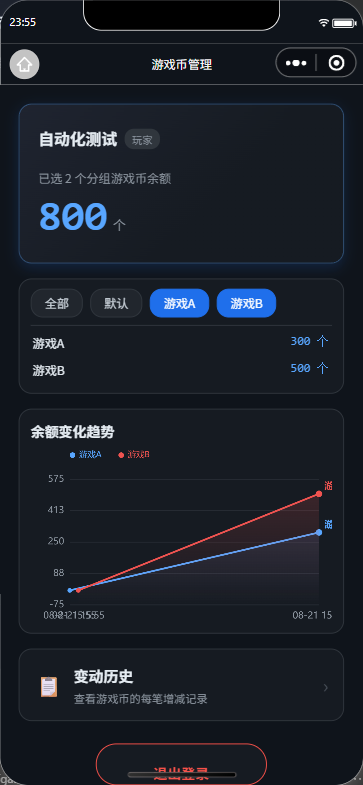
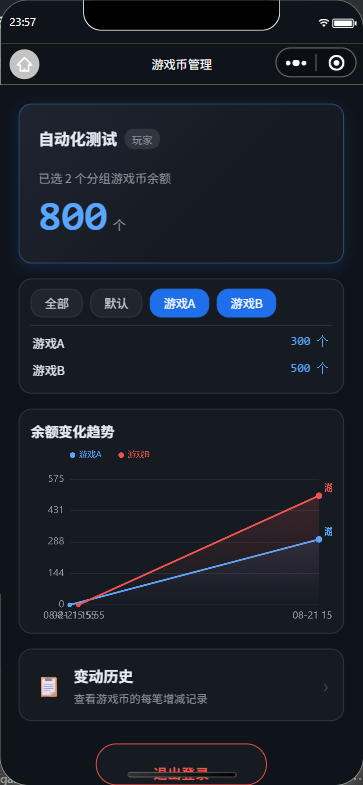
fix: 折线图左轴从 0 开始，不再显示负数刻度

Changed region(s): [[0.1515, 0.6115, 0.9091, 0.7949], [0.1515, 0.7032, 0.1818, 0.7338], [0.1515, 0.642, 0.1818, 0.6726]]

diff --git a/utils/chart.js b/utils/chart.js
@@ -88,11 +88,12 @@ function drawBalanceChart(canvas, ctx, size, series) {
   }
 
   // ===== 余额范围（跨所有序列） =====
+  // 左轴从 0 开始：余额不会为负，底部固定 0，只向上留余量
   let lo = Math.min(0, ...allPoints.map(p => p.balance))
   let hi = Math.max(...allPoints.map(p => p.balance))
   const pad = (hi - lo) * 0.15 || 1
   hi += pad
-  lo -= pad
+  if (lo < 0) lo -= pad // 仅当存在负余额时才向下扩展
 
   // 坐标函数
   const X = (d, i) => {
